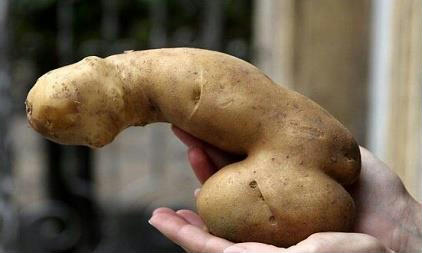
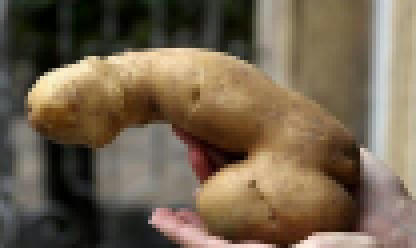
Хуй2

diff --git a/src/main.rs b/src/main.rs
@@ -1,15 +1,11 @@
 
 extern crate jpeg_decoder as jpeg;
 extern crate rgb;
-extern crate rustdct;
 extern crate image;
 
 
 
 
-use rustdct::dct2::{DCT2, DCT2ViaFFT};
-use rustdct::dct3::{DCT3, DCT3ViaFFT};
-use rustdct::rustfft::FFTplanner;
 use rgb::*;
 use std::fs::File;
 use std::io::BufReader;
@@ -53,6 +49,48 @@ impl IndexMut<usize> for Maxik2D
 
 
 
+fn dct(vhod :&mut[f32], vihod :&mut[f32])
+{
+    let mut a1 = 0.0;
+    let mut a2 = 0.0;
+    let mut a3 = 0.0;
+    let mut a4 = 0.0;
+    for i in 0..4
+    {
+        for j in 0..4
+        {
+            a1 += vhod[i * 8 + j];
+            a2 += vhod[i * 8 + (j + 4)];
+            a3 += vhod[(i + 4) * 8 + j];
+            a4 += vhod[(i + 4) * 8 + (j + 4)];
+        }
+    }
+    a1 /= 16.0;
+    a2 /= 16.0;
+    a3 /= 16.0;
+    a4 /= 16.0;
+    vihod[0] = a1;
+    vihod[1] = a2;
+    vihod[2] = a3;
+    vihod[3] = a4;
+}
+
+
+fn tcd(vhod :&mut[f32], vihod :&mut[f32])
+{
+    for i in 0..4
+    {
+        for j in 0..4
+        {
+            vihod[i * 8 + j] += vhod[0];
+            vihod[i * 8 + (j + 4)] = vhod[1];
+            vihod[(i + 4) * 8 + j] = vhod[8];
+            vihod[(i + 4) * 8 + (j + 4)] = vhod[9];
+        }
+    }
+}
+
+
 fn main()
 {
     let file = File::open("hh.jpeg").expect("failed to open file");
@@ -64,7 +102,7 @@ fn main()
     let mut hi = metadata.height as usize;
     let mut wi = metadata.width as usize;
 
-  /*  let mut matr1 = Vec::new();
+    let mut matr1 = Vec::new();
     let mut matg1 = Vec::new();
     let mut matb1 = Vec::new();
     
@@ -77,31 +115,37 @@ fn main()
     {
         if (i % wi < wi - a1)
         {
-            matr1.push(pixels[i].r  as f32);
-            matg1.push(pixels[i].g  as f32);
-            matb1.push(pixels[i].b  as f32);
+            matr1.push(pixels[i].r as f32);
+            matg1.push(pixels[i].g as f32);
+            matb1.push(pixels[i].b as f32);
         }
     }
 
     wi -= a1;
     hi -= a2;
-    let matr = Maxik2D::new(matr1, wi);
-    let matg = Maxik2D::new(matg1, wi);
-    let matb = Maxik2D::new(matb1, wi);
-
-    let mut Resr = Vec::new();
-    let mut Resg = Vec::new();
-    let mut Resb = Vec::new();
 
 
-    let mut planner = FFTplanner::new(false);
-    let fft = planner.plan_fft(64);
 
-    let mut dct = DCT2ViaFFT::new(fft);
-    let fft = planner.plan_fft(64);
+    let mut Resr0 = Vec::new();
+    let mut Resg0 = Vec::new();
+    let mut Resb0 = Vec::new();
+
+    let mut Resr1 = Vec::new();
+    let mut Resg1 = Vec::new();
+    let mut Resb1 = Vec::new();
+
+    let mut Resr2 = Vec::new();
+    let mut Resg2 = Vec::new();
+    let mut Resb2 = Vec::new();
+
+    let mut Resr3 = Vec::new();
+    let mut Resg3 = Vec::new();
+    let mut Resb3 = Vec::new();
+
 
     let mut a = 0;
     let mut b = 0;
+
 
     while a < hi
     {
@@ -117,20 +161,33 @@ fn main()
             {
                 for j in b..b + 8
                 {
-                    vhodr.push(matr[i][j]);
-                    vhodg.push(matg[i][j]);
-                    vhodb.push(matb[i][j]);
+                    vhodr.push(matr1[i * wi + j]);
+                    vhodg.push(matg1[i * wi + j]);
+                    vhodb.push(matb1[i * wi + j]);
                                                             
                 }
             }
 
-            dct.process(&mut vhodr, &mut vihodr);
-            dct.process(&mut vhodg, &mut vihodg);
-            dct.process(&mut vhodb, &mut vihodb);
 
-            Resr.push(vihodr[0]);
-            Resg.push(vihodg[0]);
-            Resb.push(vihodb[0]);
+            dct(&mut vhodr, &mut vihodr);
+            dct(&mut vhodg, &mut vihodg);
+            dct(&mut vhodb, &mut vihodb);
+
+
+            Resr0.push(vihodr[0]);
+            Resr1.push(vihodr[1]);
+            Resr2.push(vihodr[2]);
+            Resr3.push(vihodr[3]);
+
+            Resg0.push(vihodg[0]);
+            Resg1.push(vihodg[1]);
+            Resg2.push(vihodg[2]);
+            Resg3.push(vihodg[3]);
+
+            Resb0.push(vihodb[0]);
+            Resb1.push(vihodb[1]);
+            Resb2.push(vihodb[2]);
+            Resb3.push(vihodb[3]);
 
             b += 8;
         }
@@ -144,17 +201,82 @@ fn main()
 
     let mut i = 0;
     let mut j = 0;
+    let mut k = 0;
+
+
+
+
     while i < hi
     {
         while j < wi
         {
-                ar[i * wi + j] = Resr[j / 8 + i / 8 + i];
-                ag[i * wi + j] = Resg[j / 8 + i / 8 + i];
-                ab[i * wi + j] = Resb[j / 8 + i / 8 + i];
+                ar[i * wi + j] = Resr0[k];
+                ag[i * wi + j] = Resg0[k];
+                ab[i * wi + j] = Resb0[k];
                 j += 8;
+                k += 1;
         }
         i += 8;
         j = 0;
+    }
+
+
+
+    i = 0;
+    j = 1;
+    k = 0;
+    while i < hi
+    {
+        while j < wi
+        {
+                ar[i * wi + j] = Resr1[k];
+                ag[i * wi + j] = Resg1[k];
+                ab[i * wi + j] = Resb1[k];
+                j += 8;
+                k += 1;
+        }
+        i += 8;
+        j = 1;
+    }
+
+
+
+
+
+
+    i = 1;
+    j = 0;
+    k = 0;
+    while i < hi
+    {
+        while j < wi
+        {
+                ar[i * wi + j] = Resr2[k];
+                ag[i * wi + j] = Resg2[k];
+                ab[i * wi + j] = Resb2[k];
+                j += 8;
+                k += 1;
+        }
+        i += 8;
+        j = 0;
+    }
+
+
+    i = 1;
+    j = 1;
+    k = 0;
+    while i < hi
+    {
+        while j < wi
+        {
+                ar[i * wi + j] = Resr3[k];
+                ag[i * wi + j] = Resg3[k];
+                ab[i * wi + j] = Resb3[k];
+                j += 8;
+                k += 1;
+        }
+        i += 8;
+        j = 1;
     }
 
 
@@ -166,8 +288,9 @@ fn main()
     Resg = vec![0u8; wi * hi];
     Resb = vec![0u8; wi * hi];
 
-    let mut dct = DCT3ViaFFT::new(fft);
 
+    a = 0;
+    b = 0;
     while a < hi
     {
         while b < wi
@@ -189,9 +312,16 @@ fn main()
                 }
             }
 
-            dct.process(&mut vhodr, &mut vihodr);
-            dct.process(&mut vhodg, &mut vihodg);
-            dct.process(&mut vhodb, &mut vihodb);
+              
+
+              
+
+
+            tcd(&mut vhodr, &mut vihodr);
+            tcd(&mut vhodg, &mut vihodg);
+            tcd(&mut vhodb, &mut vihodb);
+
+                    //println!("{:?}", vihodr);
 
             for i in a..a + 8
             {
@@ -207,6 +337,7 @@ fn main()
         a += 8;
         b = 0;
     }
+   // println!("{:?}", ar);
 
     let mut Res = Vec::new();
     let mut pixel;
@@ -220,8 +351,8 @@ fn main()
         }
     }
 
-    let Res = Res.as_bytes();*/
-    let Res = pixels.as_bytes();
+    let Res = Res.as_bytes();
+   // println!("{:?}", Res);
 
     let mut fily = File::create("hhout.jpeg").expect("failed to open file");
 
